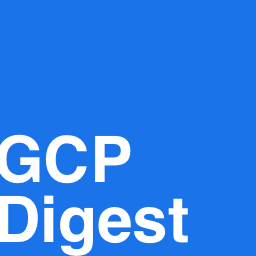
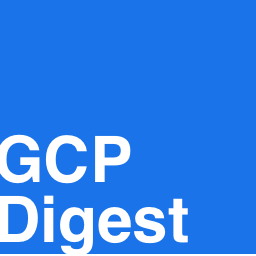
Add meta image

Changed region(s): [[0.0, 0.9688, 1.0, 1.0]]

diff --git a/layouts/_default/baseof.html b/layouts/_default/baseof.html
@@ -5,12 +5,15 @@
 	<meta name="viewport" content="width=device-width, initial-scale=1">
 	<meta http-equiv="X-UA-Compatible" content="IE=edge">
 	<title>{{ .Title }}</title>
-  <meta name="twitter:card" content="summary"></meta>
+  <meta name="twitter:card"  content="summary"></meta>
   <meta name="twitter:title" content="{{ .Title }}" />
+  <meta property="og:title"  content="{{ .Title }}" />
   {{ with .Site.Params.description }}
   <meta name="twitter:description" content="{{ . }}" />
   <meta name="description" content="{{ . }}">
+  <meta property="og:description" content="{{ . }}" />
   {{ end }}
+  <meta property="og:image" content="https://gcpdigest.com/meta.png" />
   <meta name="twitter:image" content="https://gcpdigest.com/twitter-meta-small.png" />
 
 	{{ with .Site.Params.author }}<meta name="author" content="{{ . }}">{{ end }}
